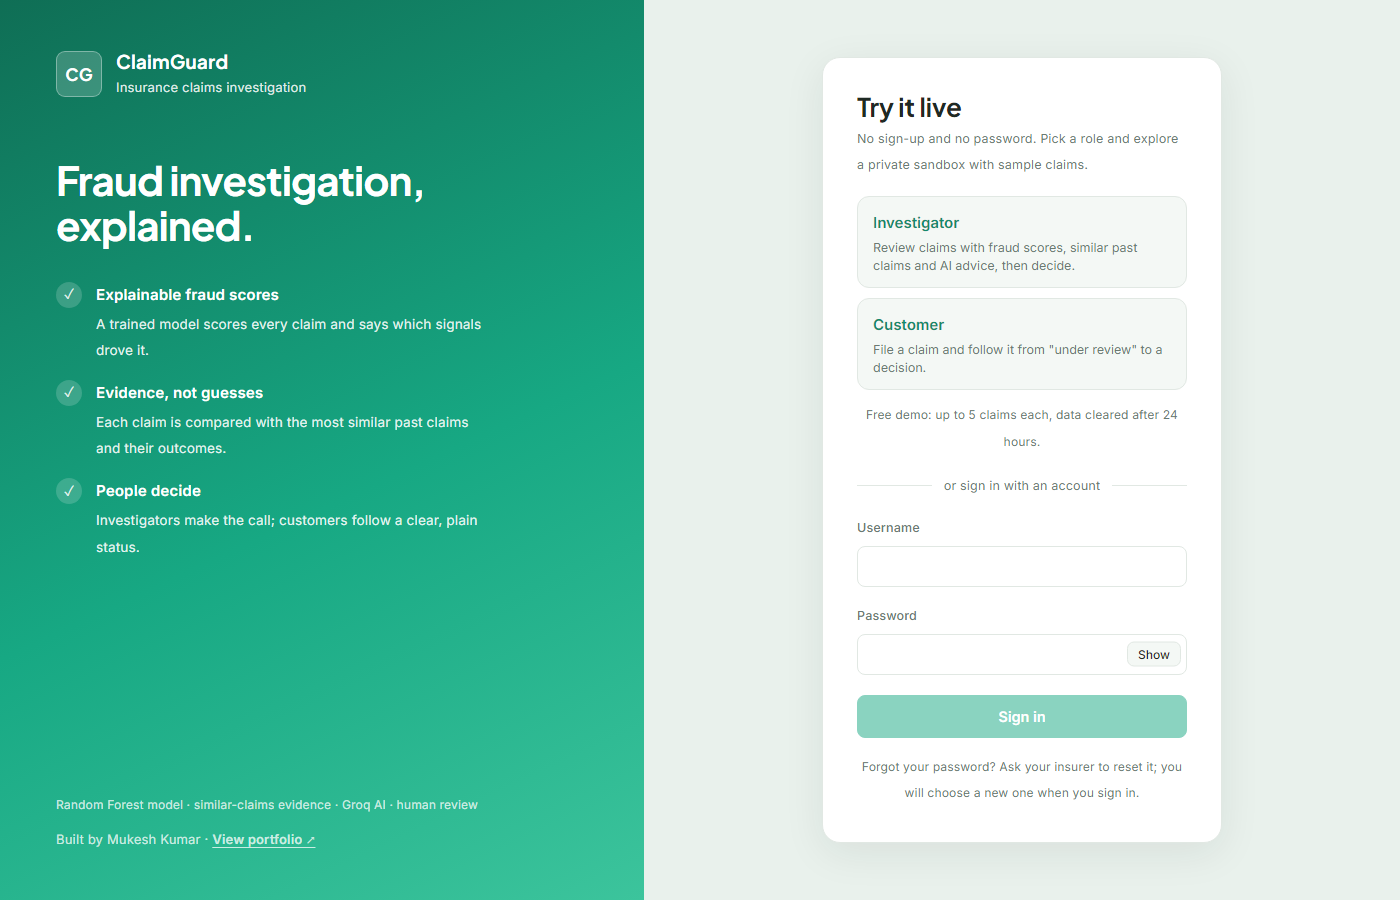
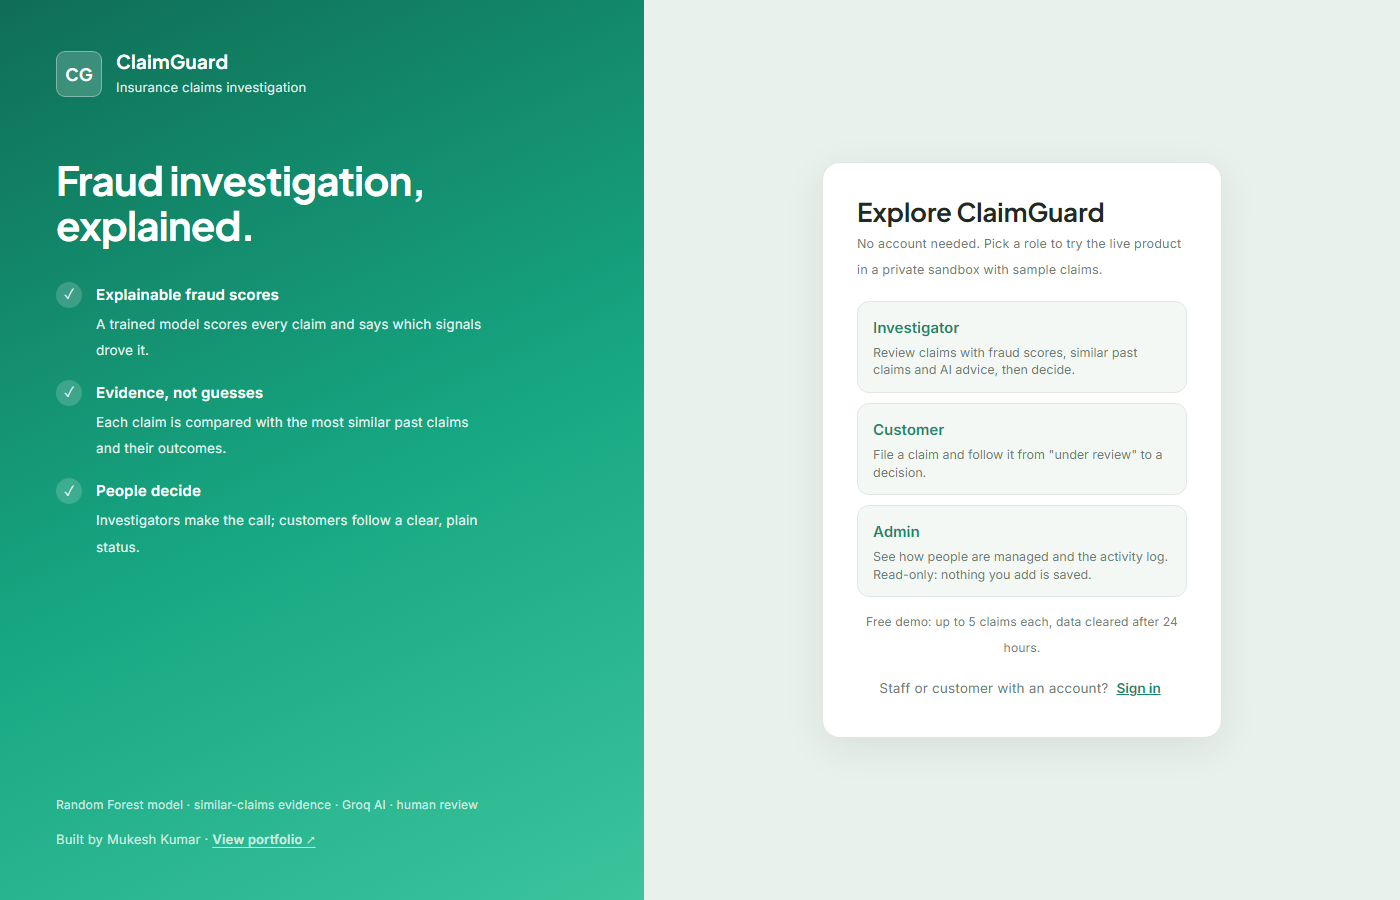
Document the demo-first front page and read-only admin demo
- README: first page is the demo (three roles) with sign-in tucked below; admin tour
  and its rules (fictional data, nothing saved, read-only); 254 tests; 49-check
  browser run; updated screenshots (front page, live admin People page)
- Changelog entries for the front page, the admin demo and the role-switch fix

Verified on the live deployment: the admin demo returns only fictional people and
activity, "+ New account" stores nothing, deciding claims and resetting or
deactivating are refused, and investigator/customer demos still cannot reach the
account routes.

diff --git a/README.md b/README.md
@@ -4,7 +4,7 @@ Last updated: 2026-11-25
 
 Built by **Mukesh Kumar** · [Portfolio](https://a-iportfolio-sigma.vercel.app/)
 
-**Live demo: https://multi-agent-insurance-claims-invest.vercel.app/**. Pick **Investigator** or **Customer** on the sign-in page; there is nothing to register. The first load can take up to a minute while the free server wakes up (the page tells you so).
+**Live demo: https://multi-agent-insurance-claims-invest.vercel.app/**. Pick **Investigator**, **Customer** or **Admin** on the first page; there is nothing to register, and the sign-in form is tucked below for people who have an account. The first load can take up to a minute while the free server wakes up (the page tells you so).
 
 ClaimGuard is an AI-assisted fraud-investigation tool for insurance claims. Each new claim goes through four stages:
 
@@ -25,9 +25,9 @@ ClaimGuard is an AI-assisted fraud-investigation tool for insurance claims. Each
 | **Evidence** | Structured similarity: ROC-AUC 0.77, compared with 0.56 for text embeddings |
 | **AI guardrails** | The reply is checked against a strict format, and the business rules live in code. The AI can never approve a claim the model flagged. |
 | **Reliability** | Every step has a fallback. No failure ends up as a 500, and the screen says what degraded. |
-| **Try it** | One click, no password: a private sandbox as an investigator or a customer, with sample claims already in the dashboards. |
+| **Try it** | One click, no password: a private sandbox as an investigator, a customer or a read-only admin, with sample claims already in the dashboards. |
 | **Roles** | Admin, investigator and customer. Customers see only a status, never their score. |
-| **Quality** | 245 tests (the original 218 also pass on Postgres). `ruff`, `bandit` and `pip-audit` are clean. |
+| **Quality** | 254 tests (the original 218 also pass on Postgres). `ruff`, `bandit` and `pip-audit` are clean. |
 | **Cost** | $0 on free tiers (Render, Vercel, Neon, Groq), using about 200 MB of RAM |
 
 ![Claims dashboard](docs/images/04-dashboard.png)
@@ -77,9 +77,9 @@ flowchart LR
 
 ## Try it live
 
-Open the live link and pick a role. There is no registration and no password to ask for.
+Most visitors have no account, so the first page is the demo: pick a role. There is no registration and no password to ask for. (If you do have an account, **Sign in** is just below the role cards.)
 
-![One-click demo on the sign-in page](docs/images/16-demo-sign-in.png)
+![The first page is the demo: pick a role, with sign-in tucked below](docs/images/16-demo-sign-in.png)
 
 A good five-minute tour:
 
@@ -87,8 +87,11 @@ A good five-minute tour:
 2. Press **Switch to investigator** in the top bar. Your claim is in the list with its fraud score, the most similar past claims and the AI's recommendation. Record a decision.
 3. **Switch to customer** again. Your claim now reads *Approved* or *Not approved*.
 4. Open **Analytics**: the dashboards are already populated with sample claims (real rows of the public dataset, run through the real pipeline).
+5. Switch to **Admin** to see how people are managed: the People page and the activity log. Try **+ New account**: the form is validated like the real one and shows the success flow, but nothing is saved.
 
 ![The live demo as an investigator](docs/images/19-demo-investigator.png)
+
+![The read-only admin demo: fictional people, nothing is saved](docs/images/20-demo-admin-people.png)
 
 A public link with no password is a risk, so the demo is a sandbox rather than a shared login:
 
@@ -97,7 +100,8 @@ A public link with no password is a risk, so the demo is a sandbox rather than a
 | **Private to each visitor** | Your claims are tagged with your session and invisible to everyone else. They are deleted after 24 hours. |
 | **Sample data is read-only** | The sample claims fill the dashboards, but you can only record decisions on your own. |
 | **Never feeds the model** | A demo decision is not saved as feedback, so strangers cannot change the similar-claims evidence or the data the model is retrained on. |
-| **No accounts** | Creating or resetting accounts, changing passwords and reading the activity log are refused by the server, not just hidden. |
+| **No real accounts** | The admin view shows fictional people and a fictional activity log, never the real ones. The server refuses to create, reset or change anything real, and the real admin's username is never consulted. |
+| **Admin is read-only** | The admin tour can look at everything but cannot file or decide claims. Its "+ New account" form validates the input and saves nothing. |
 | **Capped** | 5 claims per visitor, 90 requests a minute, 12 new sessions an hour per address and 200 overall. |
 | **Shared AI allowance** | Demo claims share 60 Groq calls a day. After that they get the rules-based recommendation, so the demo can never drain the real budget. |
 | **A clear next step** | At the claim cap, a dialog explains the limit and links to my portfolio for higher limits, your own deployment or a custom build. |
@@ -118,7 +122,7 @@ Everyone signs in on the same page, and the account's role decides what they see
 | **Admin** | Environment variables, never stored in the database | Everything, plus manage **investigator** accounts and read the activity log | |
 | **Investigator** | The admin | See every claim and its full analysis, record decisions, use Analytics, manage **customer** accounts | Other staff accounts |
 | **Customer** | The admin or an investigator (there is no public sign-up) | File claims and follow **their own** claims | Fraud score, signals, similar claims, the AI's reasoning, anyone else's claims |
-| **Demo visitor** | Nobody: one click on the sign-in page | Everything an investigator or customer can do, inside a private sandbox | Other visitors' claims, accounts, the activity log, anything that changes the real system |
+| **Demo visitor** | Nobody: one click on the first page | Investigator and customer actions inside a private sandbox, or a read-only admin tour of fictional people | Other visitors' claims, the real accounts and activity log, anything that changes the real system |
 
 The organization records each customer's policy details once (coverage limit, premium and so on). The customer then describes only the incident and three amounts, and the server merges the two and computes the total.
 
@@ -282,7 +286,7 @@ I captured these from the real app, with sign-in on, a Postgres database and a l
 | **Authorization** | Roles are checked on every route and re-read from the database on every request, so deactivation takes effect immediately. A customer can only ever read their own claims. |
 | **Input** | Every field is bounded, unknown fields are rejected, bodies are capped at 64 KB, and decisions are strict enums. |
 | **Headers** | The API sends HSTS, `nosniff`, `X-Frame-Options: DENY` and `no-store`. The frontend has a strict CSP via [`frontend/vercel.json`](frontend/vercel.json). API docs are off in production. |
-| **Public demo** | A demo visitor holds a short-lived signed token for a throwaway identity, not an account. Every request is limited per visitor, claims are capped, the AI allowance is shared and finite, and the server refuses account routes, password changes, the audit log and decisions on sample data. Sandbox rows are filtered out of every real list. |
+| **Public demo** | A demo visitor holds a short-lived signed token for a throwaway identity, not an account. Every request is limited per visitor, claims are capped, the AI allowance is shared and finite, and the server refuses password changes and decisions on sample data. The demo admin is read-only and is served fictional people and activity, never the real tables. Sandbox rows are filtered out of every real list. |
 | **LLM safety** | Claim data is fenced as data in the prompt, and client-supplied text is never echoed into it. The reply is schema-validated, and the rules are enforced in code. |
 | **Audit trail** | Sign-ins, failures, lockouts, password and account changes, and claims filed and reviewed are all logged. Passwords, tokens and claim contents never are. |
 | **Supply chain** | The lockfile is committed and installs are hash-verified. `pip-audit`, `bandit` and `ruff` (security rules) are clean. |
@@ -428,7 +432,7 @@ Beyond the hosting gaps above, these are real limits of the system itself:
 uv run python -m pytest -q
 ```
 
-There are **245 tests**. The original 218 pass on SQLite and on Postgres 16 (set `TEST_DATABASE_URL` to run them on Postgres); the 27 added for the demo ran on SQLite, and the Postgres paths they use were exercised on the live deployment. The suite never touches the network: Groq is replaced by a fake. It covers the call guards, the Groq client, schema and policy enforcement, every fallback path, auth (including token tampering and `alg=none` forgery), roles, request protections, retrieval, persistence and the retraining gate. The demo tests cover sandbox isolation, the customer-to-investigator round trip, that decisions never reach the feedback table, the claim, request and AI limits, forged demo tokens, clean-up, and the all-or-nothing seeding. I also drove the demo end to end in a real browser (24 checks: Back and Forward on every screen, role switching, the claim cap and its dialog, and the cold-start screen). On top of the tests, `ruff` (with security rules), `bandit` and `pip-audit` are clean.
+There are **254 tests**. The original 218 pass on SQLite and on Postgres 16 (set `TEST_DATABASE_URL` to run them on Postgres); the 36 added for the demo ran on SQLite, and the Postgres paths they use were exercised on the live deployment. The suite never touches the network: Groq is replaced by a fake. It covers the call guards, the Groq client, schema and policy enforcement, every fallback path, auth (including token tampering and `alg=none` forgery), roles, request protections, retrieval, persistence and the retraining gate. The demo tests cover sandbox isolation, the customer-to-investigator round trip, that decisions never reach the feedback table, the claim, request and AI limits, forged demo tokens, clean-up, the all-or-nothing seeding, and the read-only admin tour (fictional data only, nothing saved, real accounts and audit log never exposed). I also drove the demo end to end in a real browser (49 checks: the demo-first front page, Back and Forward on every screen, role switching, the claim cap and its dialog, the cold-start screen, and the admin tour). On top of the tests, `ruff` (with security rules), `bandit` and `pip-audit` are clean.
 
 ## Project structure
 

diff --git a/CHANGELOG.md b/CHANGELOG.md
@@ -5,6 +5,16 @@ All notable changes to this project are documented here, in the
 
 ## [Unreleased] - one-click demo, sample data, Back-button fix
 
+### Added (front page and admin demo)
+- **Demo-first front page.** Most visitors have no account, so the first page leads with the demo (three role cards) and tucks the sign-in form behind "Staff or customer with an account? Sign in". Without the demo the form is shown as before.
+- **Read-only admin demo.** `POST /demo/start` and `/demo/switch` accept `admin`. The demo admin sees **fictional** people and a **fictional** activity log (the real accounts and audit log are never read), can try the "+ New account" form (validated like the real one, nothing stored), and can read claims but cannot file or decide them. The real admin's username is never consulted for demo requests. (`demo.py`, `main.py`)
+- A demo bar that switches between all three roles.
+- Responsive mobile layout (bottom tab bar, stacked claims table).
+- 9 more tests (254 in total) and a 25-check browser script for the front page and admin tour.
+
+### Fixed (front page and admin demo)
+- Switching between the two dashboard roles kept the same component mounted, so the role-switch buttons stayed disabled and the old screen lingered. A role change now remounts the dashboard.
+
 ### Added
 - **One-click public demo** (`DEMO_ENABLED`). `POST /demo/start` gives a visitor a short-lived signed token for a throwaway investigator or customer identity, and `POST /demo/switch` changes role inside the same sandbox. There is no account, no password and nothing to register. (`demo.py`, `auth.py`)
 - **Private sandboxes.** A visitor's claims carry their session id (`claims.demo_session`, added by the automatic migration), are invisible to everyone else and to real staff, are deleted after 24 hours, and are **never written to the feedback table**, so a stranger cannot change the similar-claims evidence or the data the model is retrained on.
